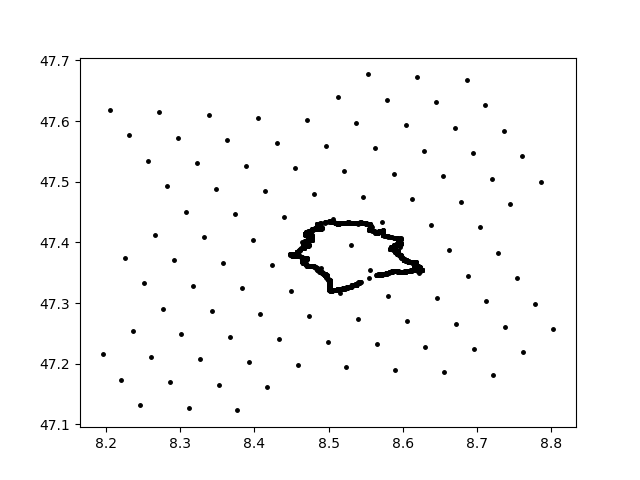
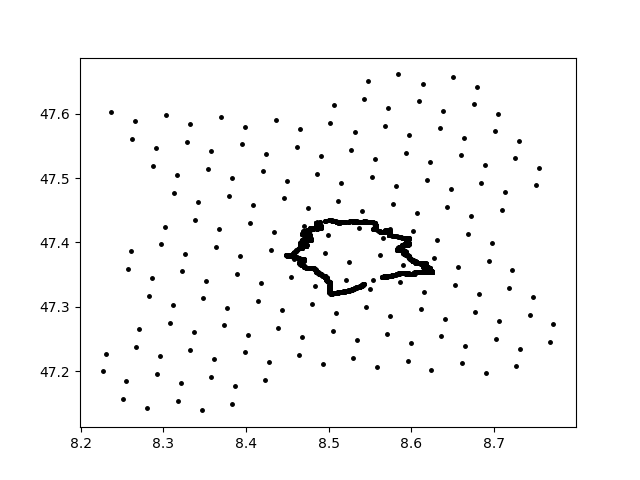
Used xarray's isle method to extract cells. Worked well for a low res grid.

diff --git a/Extract_cells_inside_poly.py b/Extract_cells_inside_poly.py
@@ -41,19 +41,21 @@ fileN='/users/nponomar/grids/icon_Zurich_1_DOM02.nc'
 dataset = Dataset(fileN, maskandscale=True, mmap=False)
 dataset = xr.load_dataset(fileN)
 
-lats = dataset['vlat'][:]
-lons = dataset['vlon'][:]
+lats = dataset['clat'][:]
+lons = dataset['clon'][:]
 
 clon = np.rad2deg( lons )
 clat = np.rad2deg( lats )
 #print('Centers shape, lon, lat', np.shape(clon), np.shape(clat), clon, clat)
-print(dataset['vlat'] < dataset['vlat'].mean())
-dropped = dataset.where(dataset['vlat'] < dataset['vlat'].mean(), drop=True)
+
+#print(dataset['vlat'] < dataset['vlat'].mean())
+#dropped = dataset.where(dataset['vlat'] < dataset['vlat'].mean(), drop=True)
 #Search for indecies inside poly
-dropped.to_netcdf("/users/nponomar/grids/icon_Zurich_1_DOM02_droppedcells_python.nc" )
+#dropped.to_netcdf("/users/nponomar/grids/icon_Zurich_1_DOM02_droppedcells_python.nc" )
 
 #clon_poly = np.zeros(np.shape(clon), dtype=np.float64)
 #clat_poly = np.zeros(np.shape(clat), dtype=np.float64)
+
 indcs_poly=[]
 x = np.unique(clon)
 epsilon = (x[1] - x[0])
@@ -65,6 +67,7 @@ for ix in range(0, len(clon)):
 print('Centers inside poly shape, indecies', np.shape(indcs_poly), indcs_poly)
 
 #Extract cells 
+""""
 
 ifile = fileN
 ofile = "/users/nponomar/grids/icon_Zurich_1_DOM02_extractedcells_python.nc" 
@@ -74,6 +77,18 @@ inds = ','.join(str(e+1) for e in indcs_poly)
 cdo.selgridcell(inds, input=ifile, output=ofile)
 
 cdo.selgridcell()
+"""
+dataset_cells = dataset.isel(cell=indcs_poly) #extract vars which have cell dimension
+
+inds_verticies = np.array([[x for x in y] for y in dataset.vertex_of_cell[:, indcs_poly].values-1]).flatten()
+print('Extracted inds, inds_v', indcs_poly, inds_verticies)
+inds_edges = np.array([[x for x in y] for y in dataset.edge_of_cell[:, indcs_poly].values-1]).flatten()
+
+dataset_cells_verts = dataset_cells.isel(vertex=inds_verticies)
+dataset_cells_verts_edges = dataset_cells_verts.isel(edge=inds_edges)
+
+dataset_cells_verts_edges.to_netcdf("/users/nponomar/grids/icon_Zurich_1_DOM02_extracted_vars.nc" )
+
 #Plot the grid and city's shape file
 clon_poly = clon[indcs_poly]
 clat_poly = clat[indcs_poly]
@@ -85,16 +100,21 @@ plt.savefig('check.png')
 
 
 #Read newly created nc grid file
-fileN='/users/nponomar/grids/icon_Zurich_1_DOM02_extractedcells_python.nc'
+fileN='/users/nponomar/grids/icon_Zurich_1_DOM02_extracted_vars.nc'
 dataset = Dataset(fileN, maskandscale=True, mmap=False)
 dataset = xr.load_dataset(fileN)
 print(dataset)
+clats = dataset.variables['clat'][:]
+clons = dataset.variables['clon'][:]
 
-lats = dataset.variables['vlat'][:]
-lons = dataset.variables['vlon'][:]
+vlats = dataset.variables['vlat'][:]
+vlons = dataset.variables['vlon'][:]
 
-clon1 = np.rad2deg( lons )
-clat1 = np.rad2deg( lats )
+clon1 = np.rad2deg( clons )
+clat1 = np.rad2deg( clats )
+
+vlon1 = np.rad2deg( vlons )
+vlat1 = np.rad2deg( vlats )
 
 clon_poly = clon[indcs_poly]
 clat_poly = clat[indcs_poly]
@@ -104,5 +124,6 @@ ax.plot(clon, clat, 'o', color='black', markersize=2.5)
 ax.plot(clon_poly, clat_poly, 'o', color='green', markersize=2.5)
 ax.plot(np.asarray(coords)[:, 0], np.asarray(coords)[:, 1], 'o', color='black', markersize=2.5)
 ax.plot(clon1, clat1, 'o', color='red', markersize=2.5)
-plot_icongrid(dataset, ax)
-plt.savefig('Extracted_wit_cdo_points.png')
+ax.plot(vlon1, vlat1, 'o', color='gray', markersize=2.5)
+#plot_icongrid(dataset, ax)
+plt.savefig('Extracted_points_with_xr_isle.png')
